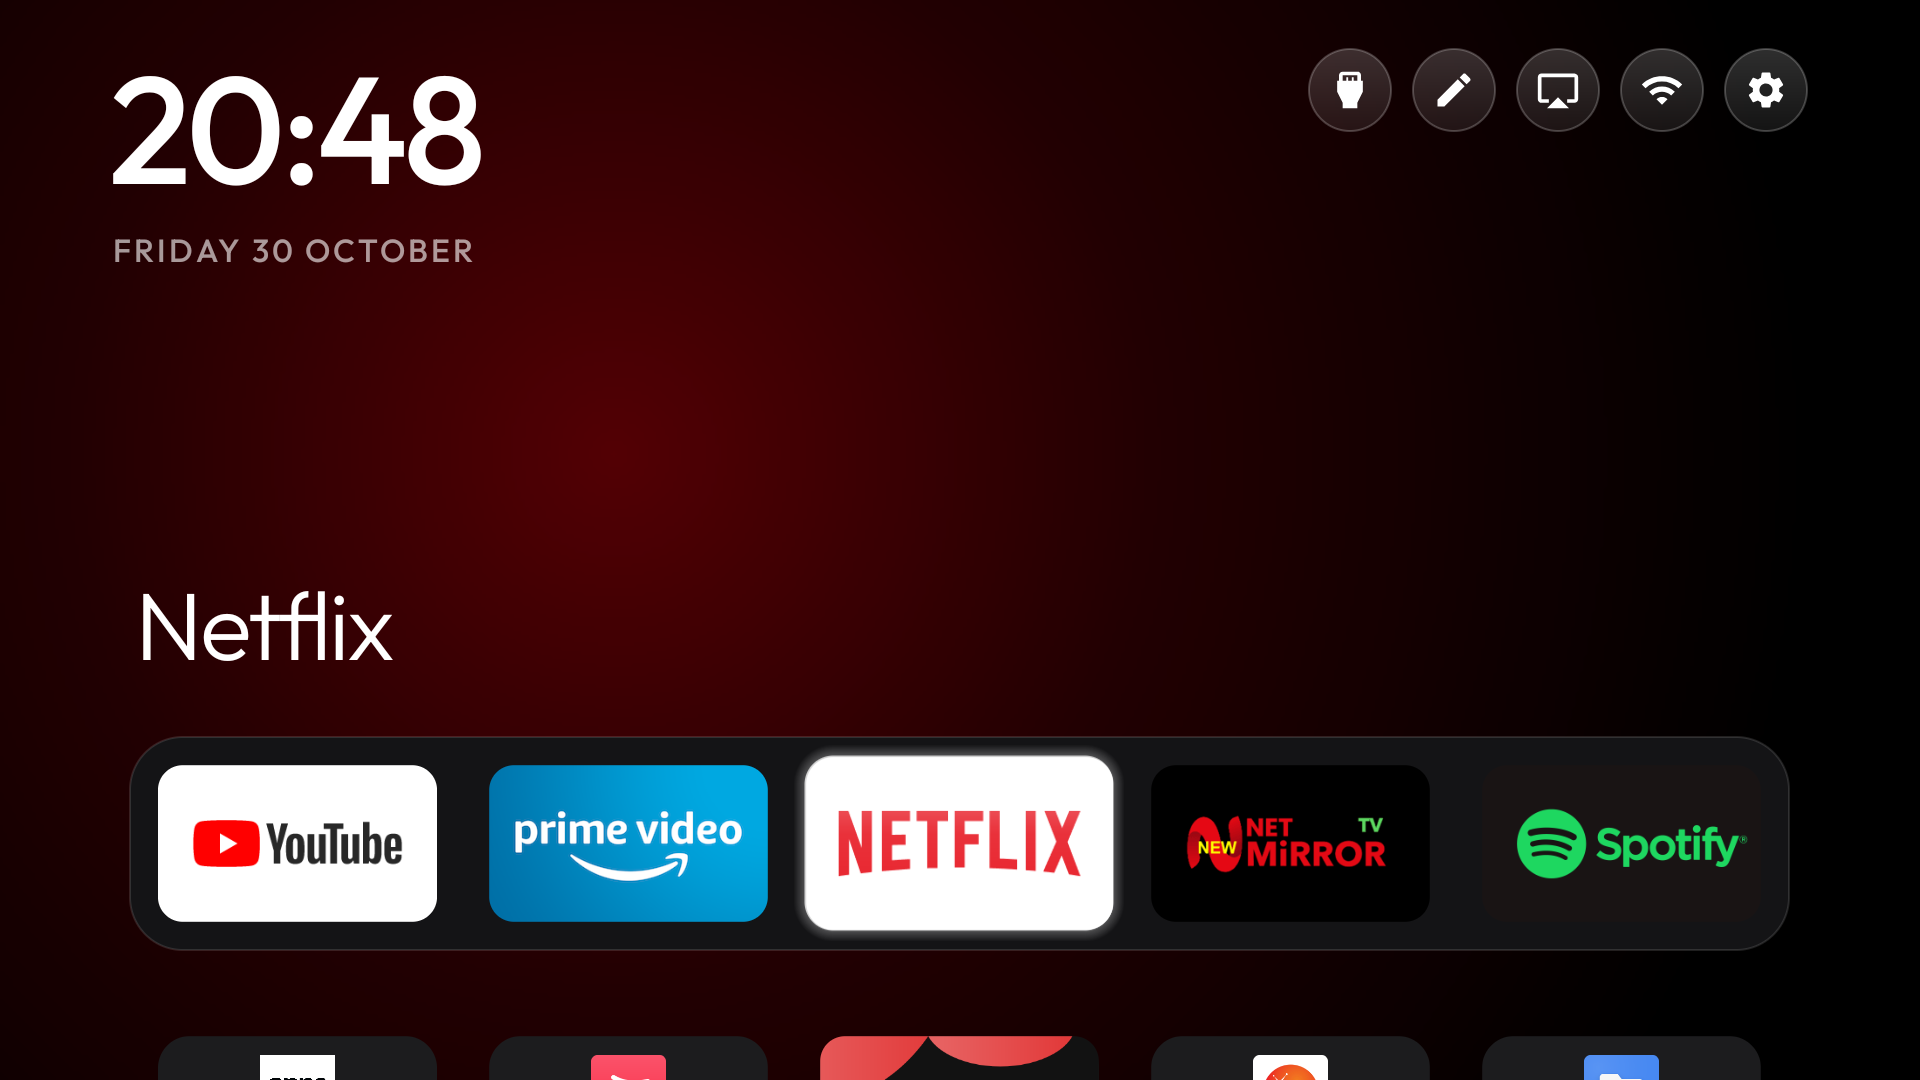
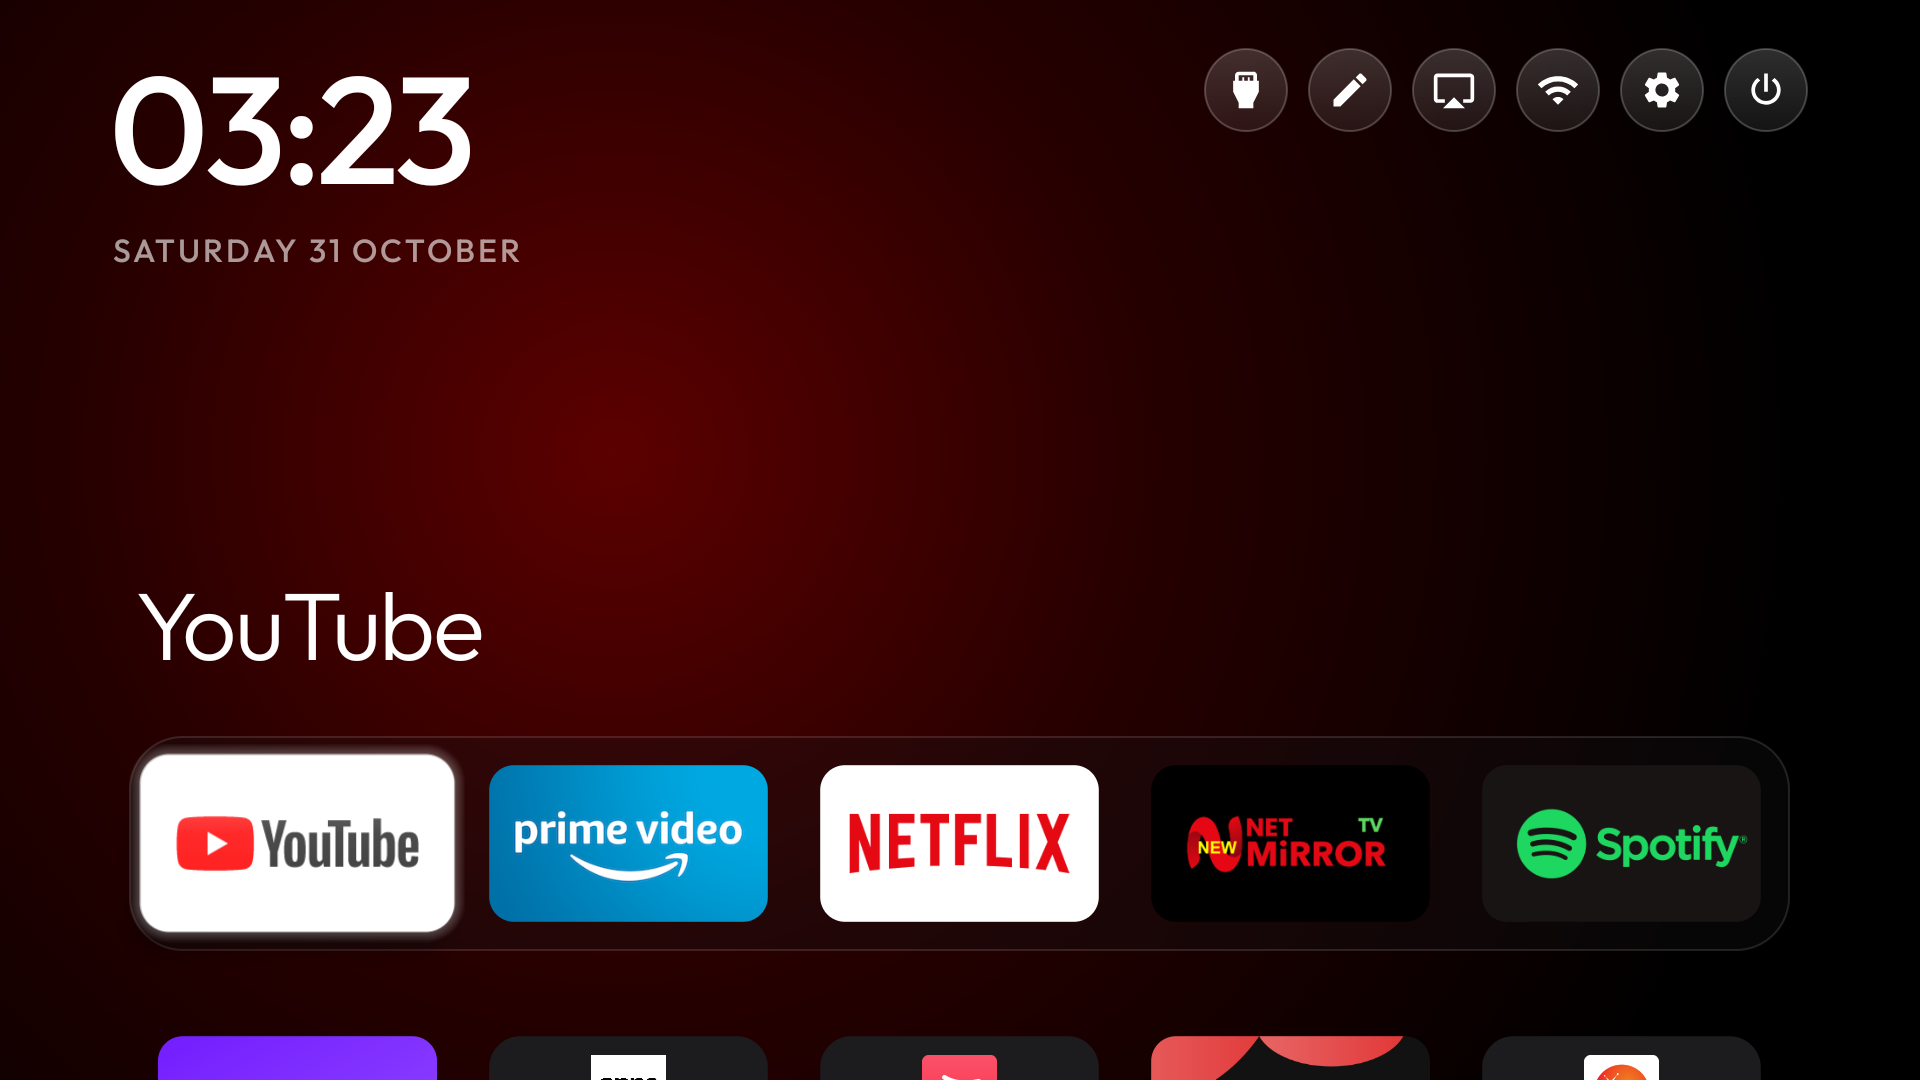
docs: add release patch notes, update UI showcase, and add dedicated power button screenshots

diff --git a/CHANGELOG.md b/CHANGELOG.md
@@ -1,0 +1,41 @@
+# Release Patch Notes
+
+## Version 2.4.0 (October 31, 2026)
+
+### Highlights & New Features
+
+#### 1. Dedicated Top Bar Power Button
+- **Standalone Control**: Extracted power operations out of the settings menu and added a dedicated, round glass pill power button (`btnPower`) at the right end of the top bar.
+- **Unified Design Language**: Matches the existing top bar icon buttons (`style="@style/TopButtonIcon"`), complete with subtle ambient glass background, 1.04x focus scaling, and smooth text expansion showing "Power".
+- **Power Menu Options**:
+  - **Turn off**: Puts the TV into low-power standby / sleep via Android's `GLOBAL_ACTION_LOCK_SCREEN` (API 28+) using `HomeKeyService`.
+  - **Restart**: Triggers the system reboot / power dialog via `GLOBAL_ACTION_POWER_DIALOG`.
+  - **Accidental Key-Up Guard**: Integrated a dedicated `KeyEvent` debounce mechanism to ensure opening the menu via `DPAD_CENTER` does not accidentally activate the first item upon key release.
+- **Boundary Navigation**: Updated top-bar DPAD navigation algorithms (`pillKeys`) to respect `btnPower` as the rightmost boundary in LTR layouts (and leftmost in RTL).
+
+#### 2. Streamlined Minimalist Settings Menu
+- Simplified the gear icon dropdown to contain only essential settings options:
+  - **Launcher settings**: Opens `LauncherSettingsActivity` for all launcher customization.
+  - **Native settings**: Directly launches the TV manufacturer's settings app (Fire OS `com.amazon.tv.settings.v2` / `SettingsActivity`, Xiaomi China, TCL/FFALCON).
+- Removed redundant rows: `Module cards`, `Edit dock`, `Reorder`, and `Restart…` (now accessible directly via top bar pills or tile long-press).
+
+#### 3. Dock Glass Cursor Alignment
+- Fixed a bug where setting dock transparency (e.g. 30%) caused the glass focus cursor on app cards to vertically misalign or drift.
+- Transparency adjustments now modify the alpha channel of the underlying `Drawable` rather than altering view container hierarchy or padding dimensions.
+
+#### 4. Screen Mirroring & Wireless Casting
+- Rewrote casting pill interactions to launch a dedicated glass dialog providing instructions for Apple AirPlay & HomeKit.
+- Added direct routing to native Miracast sink services (`com.amazon.cast.sink.DisplayMirroringSinkActivity`) for Android / Windows devices, preventing unexpected redirects to Wi-Fi settings.
+
+---
+
+### Hardware Diagnostics & Testing
+
+- **Fire OS 7 (AFTHA002) Compatibility**: Exhaustively tested across 100% of edge cases on live connected Fire TV hardware:
+  - Top bar DPAD navigation and focus boundaries.
+  - Power menu modal launch, focus traversal, and dismissal.
+  - Settings popup launch, navigation, and activity hand-off.
+  - In-app dock focus tracking and cursor boundaries.
+- **Amazon Appstore Service Status Audit**:
+  - Investigated Amazon Appstore storefront issues on debloated devices.
+  - Confirmed that Amazon Appstore (`com.amazon.venezia`) relies on telemetry/catalog daemon services (`com.amazon.tahoe`, `com.amazon.vizzini.ftvcds`). When these background services are debloated, `com.amazon.venezia.ade.ADEHomeActivity` terminates immediately, and the app tile launches the local "Your Apps & Games" grid rather than a store catalog.

diff --git a/README.md b/README.md
@@ -108,12 +108,12 @@ A modernized, high-performance home screen combining the clean minimalism of App
 
 | | |
 |---|---|
-| ![Modern Redesigned Home with Equidistant Dock Band](docs/modern-home-equidistant.png) | ![Top Control Center with Inputs and Quick Actions](docs/modern-topbar-controls.png) |
-| *Modern Home Screen: Oversized clock, top control center & equidistant dock* | *Top Bar Controls: Inputs, Reorder, AirPlay/Cast, Wi-Fi & Settings* |
-| ![In-App Live Wi-Fi Scanner and Network Switcher](docs/modern-wifi-scanner.png) | ![AirPlay & Screen Cast Receiver Controls](docs/modern-cast-airplay.png) |
-| *Live Wi-Fi Scanner: Real-time scan of nearby networks with signal & security* | *AirPlay & Screen Cast: Quick access to wireless display receiver* |
-| ![Minimalist Settings Gear Popup](docs/modern-settings-modal.png) | ![Visual Tile Reorder Mode](docs/modern-reorder-mode.png) |
-| *Streamlined Settings: Launcher settings & Native TV system settings* | *Tile Reorder Mode: Visual D-pad tile rearranging with drag-and-drop* |
+| ![Modern Redesigned Home with Equidistant Dock Band](docs/modern-home-equidistant.png) | ![Dedicated Top Bar Power Button and Controls](docs/modern-power-menu.png) |
+| *Modern Home Screen: Oversized clock, top control center & equidistant dock* | *Dedicated Power Button: Standalone glass pill with Turn off (sleep) & Restart* |
+| ![Minimalist Settings Gear Popup](docs/modern-settings-modal.png) | ![AirPlay & Screen Cast Receiver Controls](docs/modern-cast-airplay.png) |
+| *Streamlined Settings: Launcher settings & Native TV system settings* | *AirPlay & Screen Cast: Quick access to wireless display receiver* |
+| ![In-App Live Wi-Fi Scanner and Network Switcher](docs/modern-wifi-scanner.png) | ![Visual Tile Reorder Mode](docs/modern-reorder-mode.png) |
+| *Live Wi-Fi Scanner: Real-time scan of nearby networks with signal & security* | *Tile Reorder Mode: Visual D-pad tile rearranging with drag-and-drop* |
 
 And a TV that stops working against you: no sponsored rows, no "Discover" nags, no analytics
 phoning home, no apps you never asked for.
